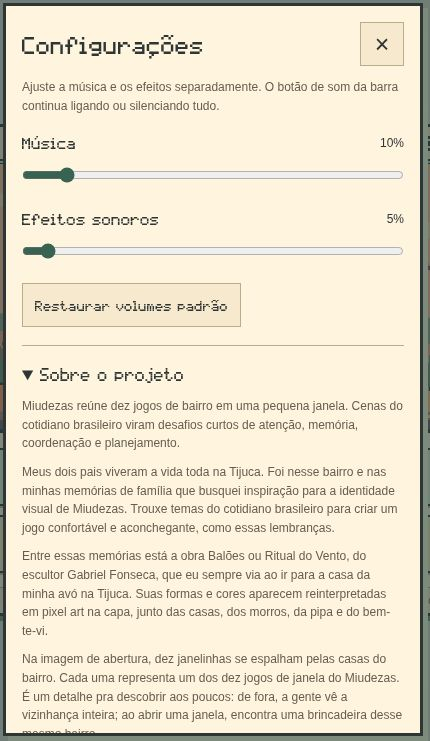
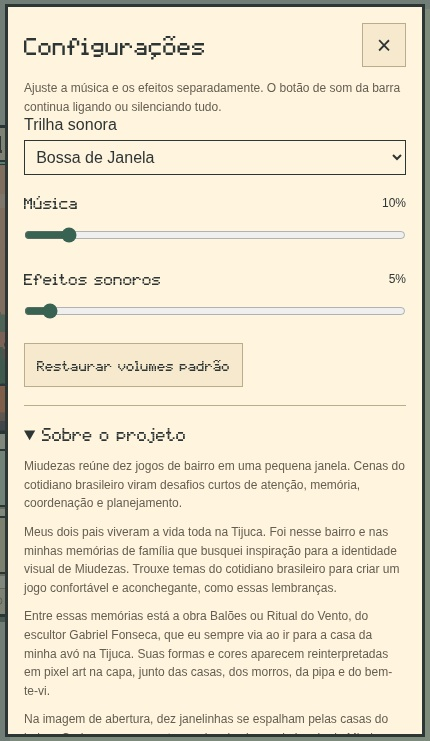
Atualiza capturas do Sobre com seletor de trilha atual

Changed region(s): [[0.0, 0.0, 1.0, 1.0]]

diff --git a/docs/imagens/telas/README.md b/docs/imagens/telas/README.md
@@ -2,7 +2,7 @@
 
 ## Origem
 
-Capturadas em **18 de novembro de 2026**, com a abertura e as duas vistas do Sobre atualizadas em **19 de novembro de 2026**, navegando pela versão pública em [GitHub Pages](https://luigiscofano.github.io/Miudezas/), em navegador Chromium de computador. Foram usados os controles reais da aplicação; não são simulações, montagens ou imagens geradas.
+Capturadas em **18 de novembro de 2026**, com a abertura atualizada em **19 de novembro de 2026**, navegando pela versão pública em [GitHub Pages](https://luigiscofano.github.io/Miudezas/), em navegador Chromium de computador. Foram usados os controles reais da aplicação; não são simulações, montagens ou imagens geradas.
 
 As seis capturas de navegação contêm a janela completa da aplicação, com a engrenagem visível: título, conteúdo, controles e rodapé. O recorte remove somente a margem vazia externa do navegador. O ponteiro foi mantido fora da região capturada. As imagens preservam a apresentação efetivamente exibida, sem retoques.
 
@@ -37,7 +37,7 @@ A captura usa valores restaurados somente no navegador de teste. A atualização
 
 A abertura foi recapturada da versão publicada no commit `3f99adfa02325b7db2ed423255afd73f8f17f4a7`, após recarga sem cache. Mantém o recorte de 502 × 502, a janela inteira e o cursor fora da imagem. As demais capturas de navegação e a vista fechada das configurações continuam sendo as de 18/11. Os READMEs principal, de `dist`, de `docs`, das artes e da capa já referenciam o PNG canônico atualizado e não precisaram duplicá-lo.
 
-As duas vistas do Sobre foram recapturadas em 19/11/2026 do Pages publicado no commit `dc2fa8d42aacfb612b53994c301fd5c31f53e13d`, após a inclusão do parágrafo das dez janelinhas. Ambas mantêm o enquadramento de 430 × 741, sem cursor nem dados pessoais de sessão. A continuação mostra o parágrafo completo e o rodapé; somente a margem externa foi recortada, sem retoques no painel.
+As duas vistas do Sobre foram atualizadas em 19/11/2026 com o seletor de Bossa de Janela e o parágrafo das dez janelinhas. Foram capturadas em Chromium local via Playwright, a partir dos arquivos do commit publicado `8563ad8433bc4cc3596ab67d456f5f787061e2a7`: os recursos carregados foram conferidos byte a byte contra o Pages com validação TLS. O acesso direto pelo navegador de captura estava indisponível neste ambiente; não foi desativada a validação de certificados. Ambas mantêm o enquadramento de 430 × 741, sem cursor nem dados pessoais de sessão. A primeira mostra o seletor e os volumes; a continuação mostra o parágrafo completo e o rodapé. Somente a margem externa foi recortada, sem retoques no painel.
 
 ## Como atualizar
 
